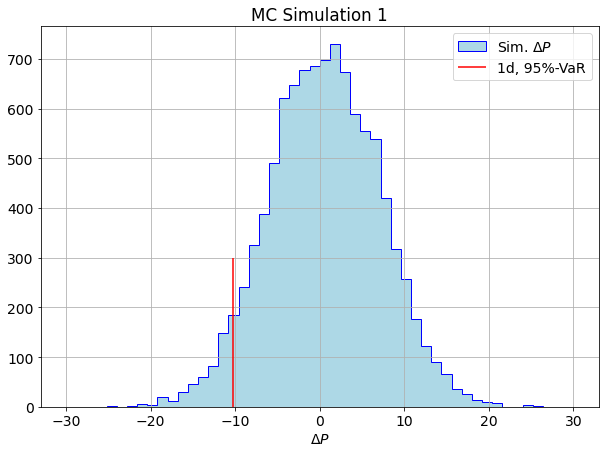
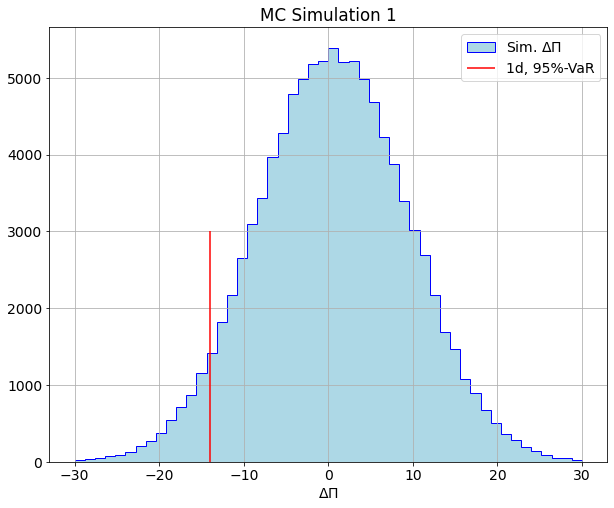
[FIX] Update to VaR

Changed region(s): [[0.0, 0.0, 1.0, 0.989]]

diff --git a/libro/var.tex b/libro/var.tex
@@ -7,7 +7,7 @@
 The \emph{Value at Risk} (VaR) of a portfolio is used when it is required to know to a certain confidence level how much will be the maximum loss in the next $N$ days. By definition it is a function of two parameters: the time horizon (i.e. $N$ days) and the confidence level. 
 It can be interpreted as the loss level over a certain time horizon that has a probability of only \((100 - X)\%\) of being exceeded. 
 
-Mathematically the VaR is the loss corresponding to the \((100-X)\textrm{th}\) percentile of the portfolio change in value distribution ($\Delta P$)over the next $N$ days (e.g. in Figure~\ref{fig:var_loss} the graphical representation of the VaR, with $N=1$ and $X=95$, is shown; in the example a normal distribution for the changes in value is assumed).
+Mathematically the VaR is the loss corresponding to the \((100-X)\textrm{th}\) percentile of the portfolio change in value distribution ($\Delta\Pi$) over the next $N$ days (e.g. in Figure~\ref{fig:var_loss} the graphical representation of the VaR, with $N=1$ and $X=95$, is shown; in the example a normal distribution for the changes in value is assumed).
 
 \begin{figure}[htb]
 \centering
@@ -24,7 +24,7 @@ Concerning the time horizon parameter it is usually set to $N=1$ since it is not
 \textrm{N-day VaR} = \textrm{1-day VaR}\cdot \sqrt{N}
 \label{eq:var_horizon}
 \end{equation}
-This relation is true only if $\Delta P$ over the considered period of time has independent and identical normal distributions with zero mean, otherwise it is just an approximation.
+This relation is true only if $\Delta\Pi$ over the considered period of time has independent and identical normal distributions with zero mean, otherwise it is just an approximation.
 
 \section{How to Estimate the VaR}
 \label{how-to-estimate-the-var}
@@ -80,10 +80,10 @@ The historical sequence of daily price variations will provide different scenari
 The daily evolution of the portfolio can be simulated by rescaling each asset value (e.g. \(v_1(t), v_2(t)\)) according to their variations between two consecutive days \(i\) and \(i-1\) in the past
 
 \begin{equation}
-P_i(t_n+1) = \left(w_1 \cdot v_1(t_n)\cfrac{(v_1(t_i)-v_1(t_{i-1}))}{v_1(t_{i-1})} + w_2\cdot  v_2(t_n)\cfrac{(v_2(t_i)-v_2(t_{i-1}))}{v_2(t_{i-1})}\right)
+\Delta\Pi(t_{n+1}) = \left(w_1 \cdot v_1(t_n)\cfrac{(v_1(t_i)-v_1(t_{i-1}))}{v_1(t_{i-1})} + w_2\cdot  v_2(t_n)\cfrac{(v_2(t_i)-v_2(t_{i-1}))}{v_2(t_{i-1})}\right)
 \end{equation}
 
-With the set of portfolio values the distribution of $\Delta P$ can be computed, and the VaR estimate will be the $(100 - X)\%$ percentile of this distribution. 
+With the set of portfolio values the distribution of $\Delta\Pi$ can be computed, and the VaR estimate will be the $(100 - X)\%$ percentile of this distribution. 
 
 Clearly such kind of simulation heavily relies on the assumption that past behaviors are indicative of what might happen in the future, that's why it is important that out historical series was as large as possible.
 
@@ -95,28 +95,26 @@ Figure~\ref{fig:hist_var} shows the resulting VaR. The calculation is carried ou
 \begin{ipython}
 import numpy as np
 
-portfolio_price = w[0] * df['aapl'].iloc[-1] + w[1] * df['nflx'].iloc[-1]
 rets = []
-for idx in df.index[1:-1]:
-    rets.append(portfolio_price*(w[0]*df['aapl_rets'].iloc[idx] + 
-                                 w[1]*df['nflx_rets'].iloc[idx]))
+for i in range(1, len(df)-1):
+    rets.append(w[0]*df.iloc[i]['aapl_rets']*df.iloc[-1]['aapl'] + 
+                w[1]*df.iloc[i]['nflx_rets']*df.iloc[-1]['nflx'])
 
 hist_var = np.percentile(rets, 5)
-print ('Historical VAR is {:.3f}'.format(hist_var))
+print('Historical VAR is {:.3f}'.format(hist_var))
 \end{ipython}
 \begin{ioutput}
-Historical VAR is -10.042
+Historical VAR is -12.368
 \end{ioutput}
 
 \begin{ipython}
-portfolio_price = df[['aapl','nflx']].iloc[-1].dot(w)
-rets = portfolio_price*df[['aapl_rets', 'nflx_rets']].iloc[1:-1].dot(w)
-hist_var = np.percentile(rets, 5)
+scaled = df[['aapl_rets', 'nflx_rets']].iloc[1:-1]*df[['aapl', 'nflx']].iloc[-1].values
+rets2 = scaled.dot(w)
 
-print ('Historical VAR is {:.3f}'.format(hist_var))
+print('Historical VAR is {:.3f}'.format(np.percentile(rets2, 5)))
 \end{ipython}
 \begin{ioutput}
-Historical VAR is -10.042
+Historical VAR is -12.368
 \end{ioutput}
 
 A cross-check of the VaR calculation can be done by fitting the histogram with a distribution from which the 5\% percentile can be extracted.
@@ -127,15 +125,15 @@ from scipy.stats import norm, t
 t_params = t.fit(rets) 
 g_params = norm.fit(rets)
 
-print (t(*t_params).ppf(0.05))
-print (norm(*g_params).ppf(0.05))
+print ("VaR from t-student fit", round(t(*t_params).ppf(0.05), 3))
+print ("VaR from Gaussian fit ",round(norm(*g_params).ppf(0.05), 3))
 \end{ipython}
 \begin{ioutput}
--9.276320158087836
--10.341559875882806
+VaR from t-student fit -12.061
+VaR from Gaussian fit  -14.092
 \end{ioutput}
 
-In this case a t-student and a normal Gaussian have been used and the resulting quantiles are in decent agreement with the historical estimate.
+In this case a t-student and a normal Gaussian have been tried and the former resulting quantiles are in good agreement with the historical estimate.
 
 \begin{figure}[htb]
 \centering
@@ -171,7 +169,7 @@ In this case a t-student and a normal Gaussian have been used and the resulting 
 \subsection{Monte Carlo Simulation}
 \label{monte-carlo-simulation}
 
-A very useful alternative to the historical approach is to use Monte Carlo simulation to generate the probability distribution for $\Delta P$. 
+A very useful alternative to the historical approach is to use Monte Carlo simulation to generate the probability distribution for $\Delta\Pi$. 
 
 Imagine we need to compute the 1-day VaR of our portfolio. The simulation can be done either:
 \begin{itemize}
@@ -191,14 +189,16 @@ cov = df[['aapl_rets', 'nflx_rets']].iloc[1:].cov()
 mvnorm = multivariate_normal(mean=mean, cov=cov)
 
 np.random.seed(1)
-sim_returns = mvnorm.rvs(10000)
+n_sims = 100000
+sim_var_returns = mvnorm.rvs(n_sims)
+sim_returns = sim_var_returns*df[['aapl', 'nflx']].iloc[-1].values
 p_returns = sim_returns.dot(w)
-mc_var1 = portfolio_price * np.percentile(p_returns, 5)
+mc_var = np.percentile(p_returns, 5)
 
-print('Simulated VAR is {:.3f}'.format(mc_var1))
+print('Simulated VAR is {:.3f}'.format(mc_var))
 \end{ipython}
 \begin{ioutput}
-Simulated VAR is -10.217
+Simulated VAR is -13.679
 \end{ioutput}
 
 \begin{figure}[htb]
@@ -215,9 +215,8 @@ from numpy.random import normal, seed
 
 T = 1
 dP = []
+seed(1)
 for exp in range(trials):
-	seed(exp)
-
     s = w[0]*df['aapl'].iloc[-1]*np.exp((mean.iloc[0] - 0.5*cov.iloc[0, 0])*T + 
         np.sqrt(cov.iloc[0, 0]*T)*normal())
     s += w[1]*df['nflx'].iloc[-1]*np.exp((mean.iloc[1] - 0.5*cov.iloc[1, 1])*T + 
@@ -225,10 +224,10 @@ for exp in range(trials):
     dP.append(portfolio_price - s)
 
 mc_var2 = np.percentile(dP, 5)
-print('Simulated VAR is {:.5f}'.format(mc_var2))
+print('Simulated VAR is {:.3f}'.format(mc_var2))
 \end{ipython}
 \begin{ioutput}
-Simulated VAR is -14.52881
+Simulated VAR is -14.726
 \end{ioutput}
 
 \begin{figure}[htb]
@@ -238,7 +237,7 @@ Simulated VAR is -14.52881
 \label{fig:mc2_var}
 \end{figure}
 
-The large difference with the previous estimates is most likely due to the different shape of the $\Delta P$ distribution tails.
+The large difference with the previous estimates is most likely due to the different shape of the $\Delta\P$ distribution tails.
 
 \subsection{Stress and Back Testing}
 \label{stress-testing-and-back-testing}
@@ -274,10 +273,10 @@ Another important check that could be done is the \emph{back testing} which cons
 df['P'] = df[['aapl', 'nflx']].iloc[:-1].dot(w)
 df['dP'] = np.log1p(df['P'].pct_change())*df['P']
 
-print ((df['dP'] < mc_var1).sum()/len(df))
+print ((df['dP'] < mc_var).sum()/len(df))
 \end{ipython}
 \begin{ioutput}
-0.007035175879396985
+0.0023450586264656616
 \end{ioutput}
 
 In this example the VaR estimate is exceeded in less than 1\% of the cases so it passed the test.
